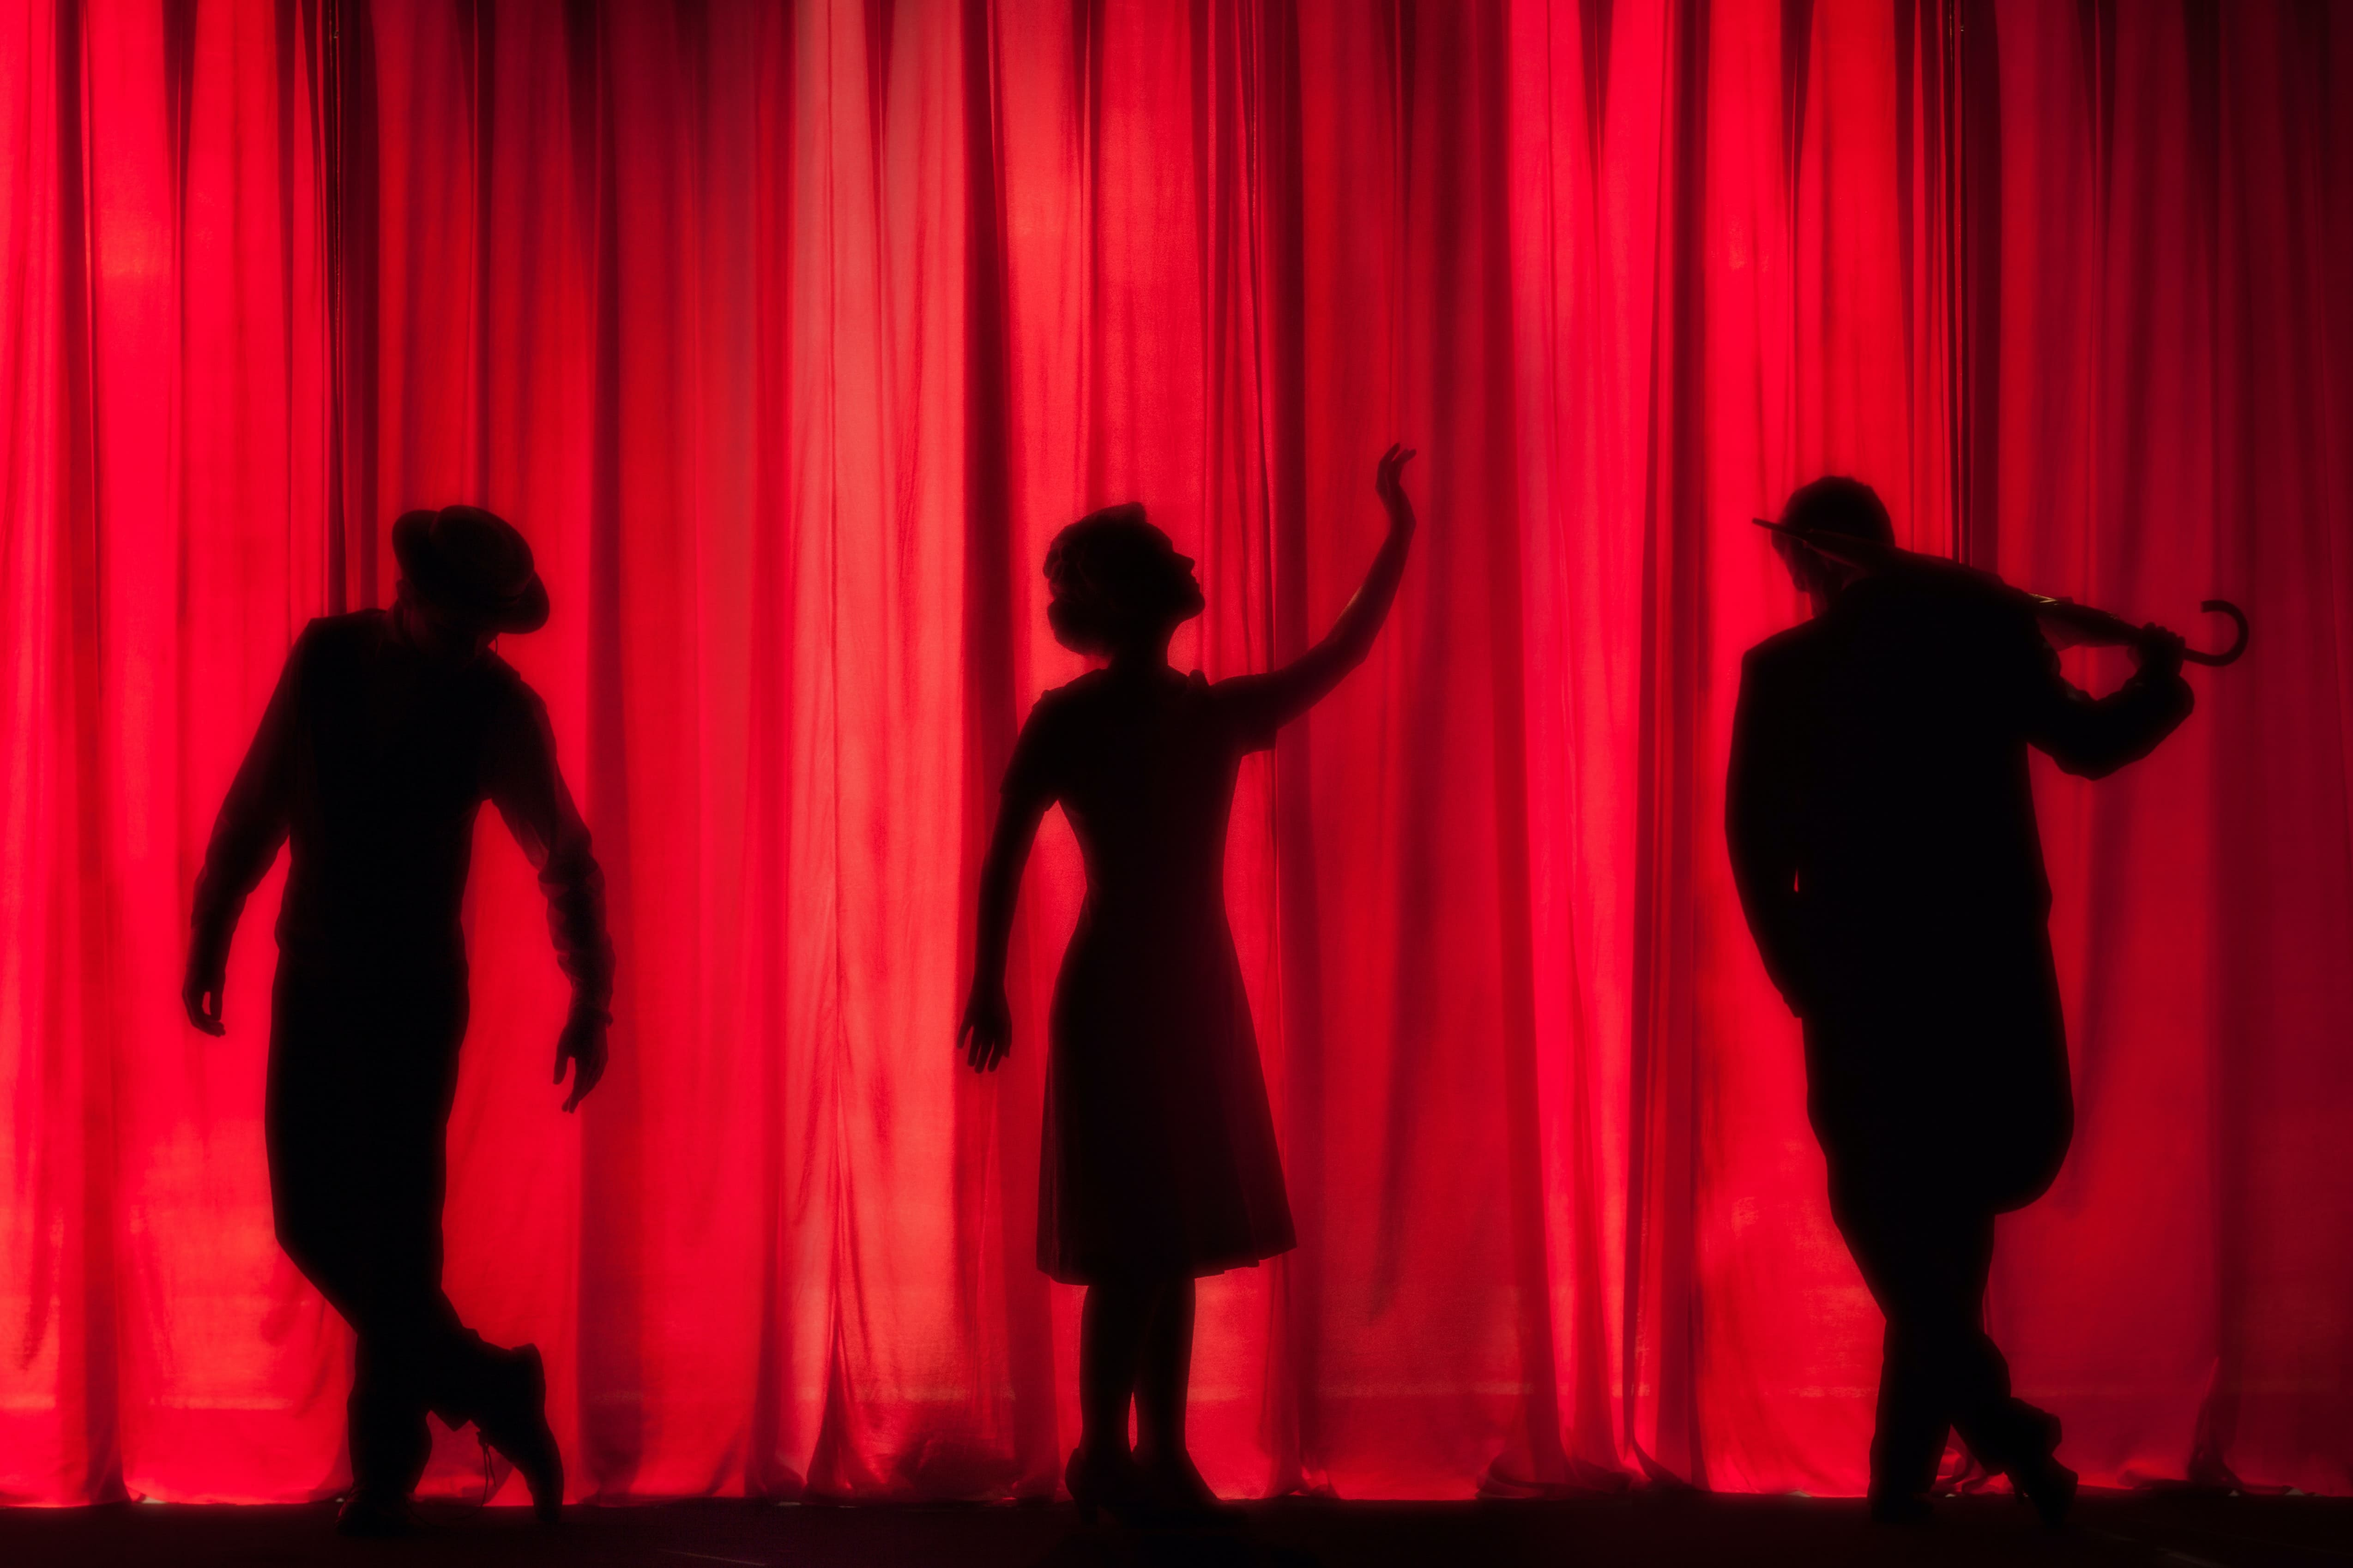
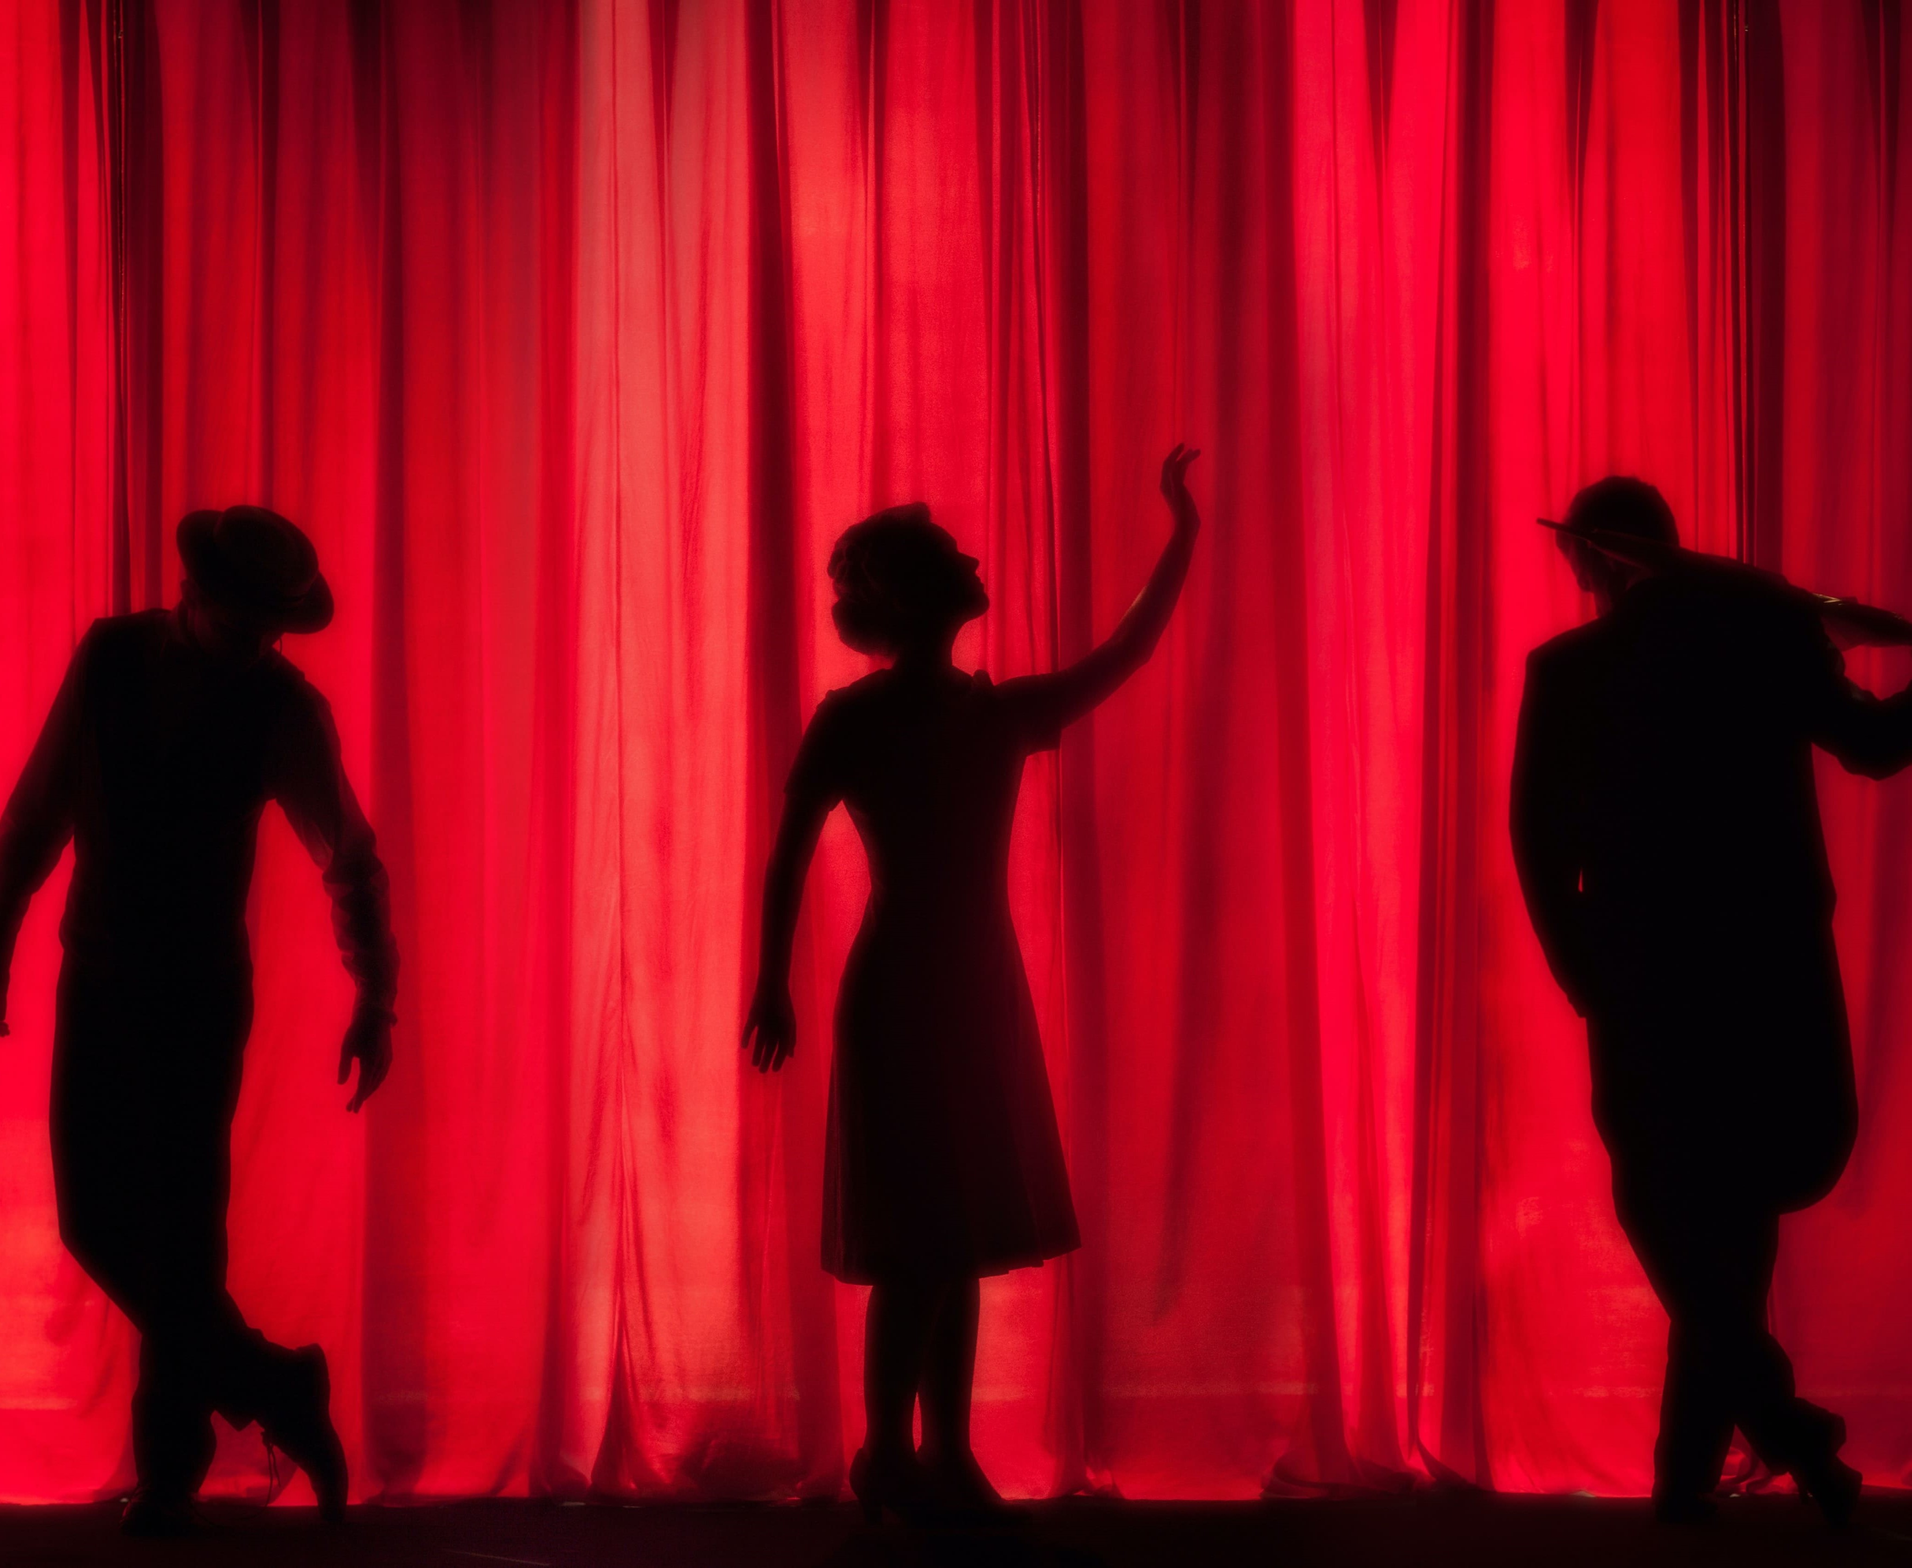
Updates

diff --git a/index.html b/index.html
@@ -296,6 +296,116 @@
             margin-bottom: 17px;
             font-weight: 500;
         }
+        .tags {
+            transform: translate(0,-50px);
+            z-index: -1;
+        }
+    }
+
+
+    .marquee-body {
+        display: flex;
+        justify-content: center;
+    }
+
+
+    .marquee-content li img {
+        width: 100%;
+        /* height: 100%; */
+        border: 2px solid #eee;
+    }
+
+    :root {
+        --marquee-width: 80vw;
+        --marquee-height: 26vh;
+        /* --marquee-elements: 12; */
+        /* defined with JavaScript */
+        --marquee-elements-displayed: 5;
+        --marquee-element-width: calc(var(--marquee-width) / var(--marquee-elements-displayed));
+        --marquee-animation-duration: calc(var(--marquee-elements) * 3s);
+    }
+
+    .marquee {
+        width: var(--marquee-width);
+        height: var(--marquee-height);
+        background-color: rgb(255, 255, 255);
+        color: #2F4858;
+        overflow: hidden;
+        position: relative;
+    }
+
+    .marquee:before,
+    .marquee:after {
+        position: absolute;
+        top: 0;
+        width: 10rem;
+        height: 103%;
+        content: "";
+        z-index: 1;
+    }
+
+    .marquee:before {
+        left: 0;
+    }
+
+    .marquee:after {
+        right: 0;
+    }
+
+    .marquee-content {
+        list-style: none;
+        height: 100%;
+        display: flex;
+        animation: scrolling var(--marquee-animation-duration) linear infinite;
+    }
+
+    /* .marquee-content:hover {
+  animation-play-state: paused;
+} */
+    @keyframes scrolling {
+        0% {
+            transform: translateX(0);
+        }
+
+        100% {
+            transform: translateX(calc(-1 * var(--marquee-element-width) * var(--marquee-elements)));
+        }
+    }
+
+    .marquee-content li {
+        display: flex;
+        justify-content: center;
+        align-items: center;
+        /* text-align: center; */
+        flex-shrink: 0;
+        width: var(--marquee-element-width);
+        max-height: 100%;
+        font-size: calc(var(--marquee-height)*3/4);
+        /* 5rem; */
+        white-space: nowrap;
+    }
+
+    .marquee-content li img {
+        width: 100%;
+        /* height: 100%; */
+        border: 2px solid #eee;
+    }
+
+    @media (max-width: 600px) {
+        html {
+            font-size: 12px;
+        }
+
+        :root {
+            --marquee-width: 100vw;
+            --marquee-height: 18vh;
+            --marquee-elements-displayed: 3;
+        }
+
+        .marquee:before,
+        .marquee:after {
+            width: 5rem;
+        }
     }
 </style>
 
@@ -410,7 +520,7 @@
             </div>
             <div class="navigator" id="prevSlide"><i class="fa-solid fa-circle-arrow-left"></i></div>
             <div class="navigator" id="nextSlide"><i class="fa-solid fa-circle-arrow-right"></i></div>
-<!-- 
+            <!-- 
             <div class="swiper-button-prev"></div>
             <div class="swiper-button-next"></div> -->
 
@@ -422,117 +532,34 @@
         <h1 class="featured-event-heading">
             Featured Events
         </h1>
-
-
-        <div class="pb-12 px-10">
-            <div class="container text-center my-12 mx-auto px-4 md:px-12">
-                <div class="flex flex-wrap -mx-1 lg:-mx-4 justify-center">
-
-                    <!-- Column -->
-                    <div class="my-1 px-1 md:w-1/2 lg:my-4 lg:px-8 lg:w-1/5">
-
-                        <figure class="snip1527">
-                            <div class="snip1527image flex flex-row justify-center">
-                                <img src="images/ev1.svg" alt="pr-sample23" />
-                            </div>
-
-                            <figcaption style="margin-bottom: 20px;padding-top: 20px;">
-                                <div class="name">
-                                    <h1 style="font-weight:500; font-size:20px;color:#515D86">Vogue Nation</h1>
-                                </div>
-                            </figcaption>
-
-                            <a href="#"></a>
-                        </figure>
-
-                    </div>
-                    <!-- END Column -->
-
-                    <!-- Column -->
-                    <div class="my-1 px-1 md:w-1/2 lg:my-4 lg:px-8 lg:w-1/5">
-
-                        <figure class="snip1527">
-                            <div class="snip1527image flex flex-row justify-center">
-                                <img src="images/ev2.svg" alt="pr-sample23" />
-                            </div>
-
-                            <figcaption style="margin-bottom: 20px;padding-top: 20px;">
-                                <div class="name">
-                                    <h1 style="font-weight:500; font-size:20px;color:#515D86">Parliamentary Debate</h1>
-                                </div>
-                            </figcaption>
-
-                            <a href="#"></a>
-                        </figure>
-
-                    </div>
-                    <!-- END Column -->
-
-                    <!-- Column -->
-                    <div class="my-1 px-1 md:w-1/2 lg:my-4 lg:px-8 lg:w-1/5">
-
-                        <figure class="snip1527">
-                            <div class="snip1527image flex flex-row justify-center">
-                                <img src="images/ev3.svg" alt="pr-sample23" />
-                            </div>
-
-                            <figcaption style="margin-bottom: 20px;padding-top: 20px;">
-                                <div class="name">
-                                    <h1 style="font-weight:500; font-size:20px;color:#515D86">Rock-O-Phonix</h1>
-                                </div>
-                            </figcaption>
-
-                            <a href="#"></a>
-                        </figure>
-
-                    </div>
-                    <!-- END Column -->
-
-                    <!-- Column -->
-                    <div class="my-1 px-1 md:w-1/2 lg:my-4 lg:px-8 lg:w-1/5">
-
-                        <figure class="snip1527">
-                            <div class="snip1527image flex flex-row justify-center">
-                                <img src="images/ev4.svg" alt="pr-sample23" />
-                            </div>
-
-                            <figcaption style="margin-bottom: 20px;padding-top: 20px;">
-                                <div class="name">
-                                    <h1 style="font-weight:500; font-size:20px;color:#515D86">Creator's Camp</h1>
-                                </div>
-                            </figcaption>
-
-                            <a href="#"></a>
-                        </figure>
-
-                    </div>
-                    <!-- END Column -->
-
-                    
-                    <!-- Column -->
-                    <div class="my-1 px-1 md:w-1/2 lg:my-4 lg:px-8 lg:w-1/5">
-
-                        <figure class="snip1527">
-                            <div class="snip1527image flex flex-row justify-center">
-                                <img src="images/ev3.svg" alt="pr-sample23" />
-                            </div>
-
-                            <figcaption style="margin-bottom: 20px;padding-top: 20px;">
-                                <div class="name">
-                                    <h1 style="font-weight:500; font-size:20px;color:#515D86">MUN</h1>
-                                </div>
-                            </figcaption>
-
-                            <a href="#"></a>
-                        </figure>
-
-                    </div>
-                    <!-- END Column -->
-
-
-                </div>
+        <div class="marquee-body" style="z-index: 100;">
+            <div class="marquee">
+                <ul class="marquee-content">
+                    <li>
+                        <img src="images/camera-dynamic-gradient.png" alt="pr-sample23" class="marquee-img" style="width: 150px;" />
+                    </li>
+                    <li><img src="images/camera-dynamic-gradient.png" alt="pr-sample23"  style="width: 150px;" /></li>
+                    <li><img src="images/camera-dynamic-gradient.png" alt="pr-sample23"  style="width: 150px;" /></li>
+                    <li><img src="images/camera-dynamic-gradient.png" alt="pr-sample23"  style="width: 150px;" /></li>
+                    <li><img src="images/camera-dynamic-gradient.png" alt="pr-sample23"  style="width: 150px;" /></li>
+                </ul>
             </div>
-
+        </div>
+        <div class="marquee-body tags" style="z-index: 1;">
+            <div class="marquee">
+                <ul class="marquee-content">
+                    <li style="font-size: 19px;">Vogue Nation</li>
+                    <li style="font-size: 19px;">Rock-O-Phonix</li>
+                    <li style="font-size: 19px;">Vogue Nation</li>
+                    <li style="font-size: 19px;">Rock-O-Phonix</li>
+                    <li style="font-size: 19px;">Rock-O-Phonix</li>
+                    <li style="font-size: 19px;">Vogue Nation</li>
+                    <li style="font-size: 19px;">Rock-O-Phonix</li>
+                    <li style="font-size: 19px;">Vogue Nation</li>
+                    <li style="font-size: 19px;">Rock-O-Phonix</li>
+                    <li style="font-size: 19px;">Rock-O-Phonix</li>
+                </ul>
+            </div>
         </div>
 
         <footer class="px-7 pt-20 md:px-10 lg:px-14"
@@ -610,6 +637,18 @@
             navToggle.item(i).classList.toggle("hidden");
         }
     };
+</script>
+
+<script>
+    const root = document.documentElement;
+    const marqueeElementsDisplayed = getComputedStyle(root).getPropertyValue("--marquee-elements-displayed");
+    const marqueeContent = document.querySelector("ul.marquee-content");
+
+    root.style.setProperty("--marquee-elements", marqueeContent.children.length);
+
+    for (let i = 0; i < marqueeElementsDisplayed; i++) {
+        marqueeContent.appendChild(marqueeContent.children[i].cloneNode(true));
+    }
 </script>
 
 </html>

diff --git a/competitions.html b/competitions.html
@@ -257,7 +257,7 @@
                 <div class="comp-name">Stage Craft</div>
                 <button onclick="clickedOnComp4()">
                     <div style="position: relative;">
-                        <div class="above"><img src="images/stage craft.jpg" /></div>
+                        <div class="above"><img src="images/stage 2.jpg" /></div>
                         <div class="below1" id="notselected4"><img src="images/Frame 51 (1).png" /></div>
                         <!-- <div class="below2 hidden" id="selected4"><img src="images/Frame 51.png" /></div> -->
                     </div>
